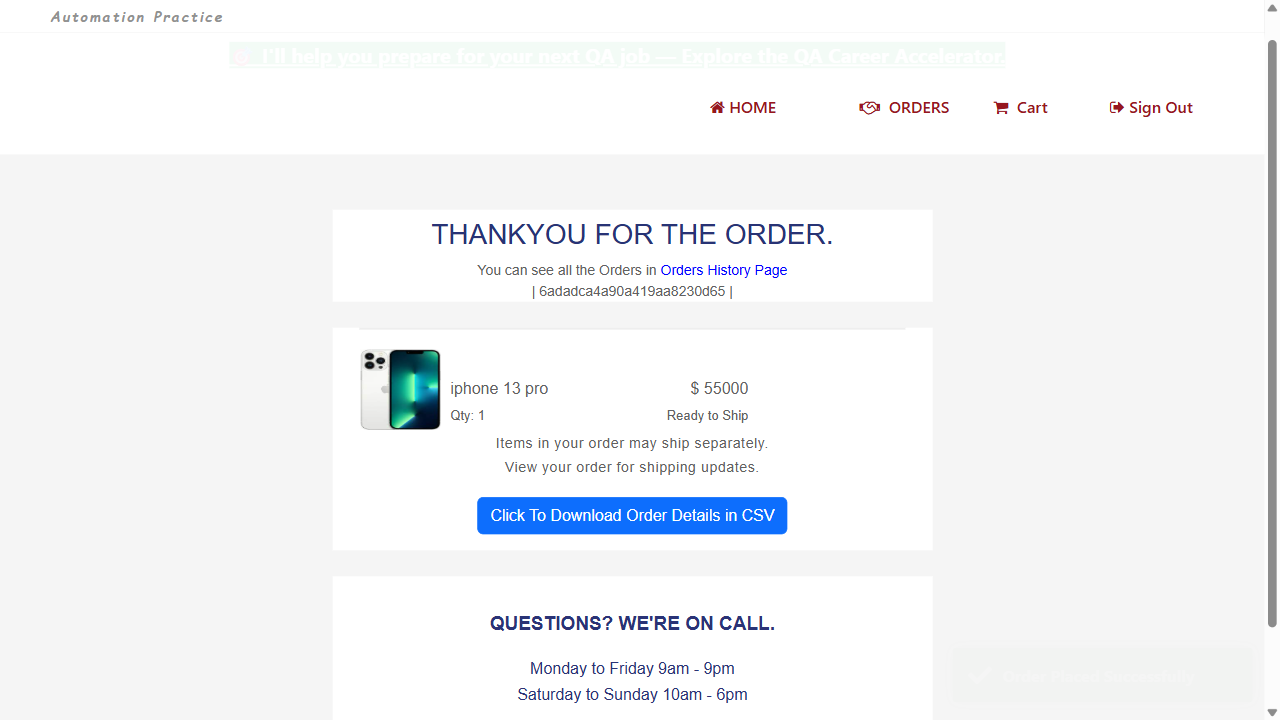
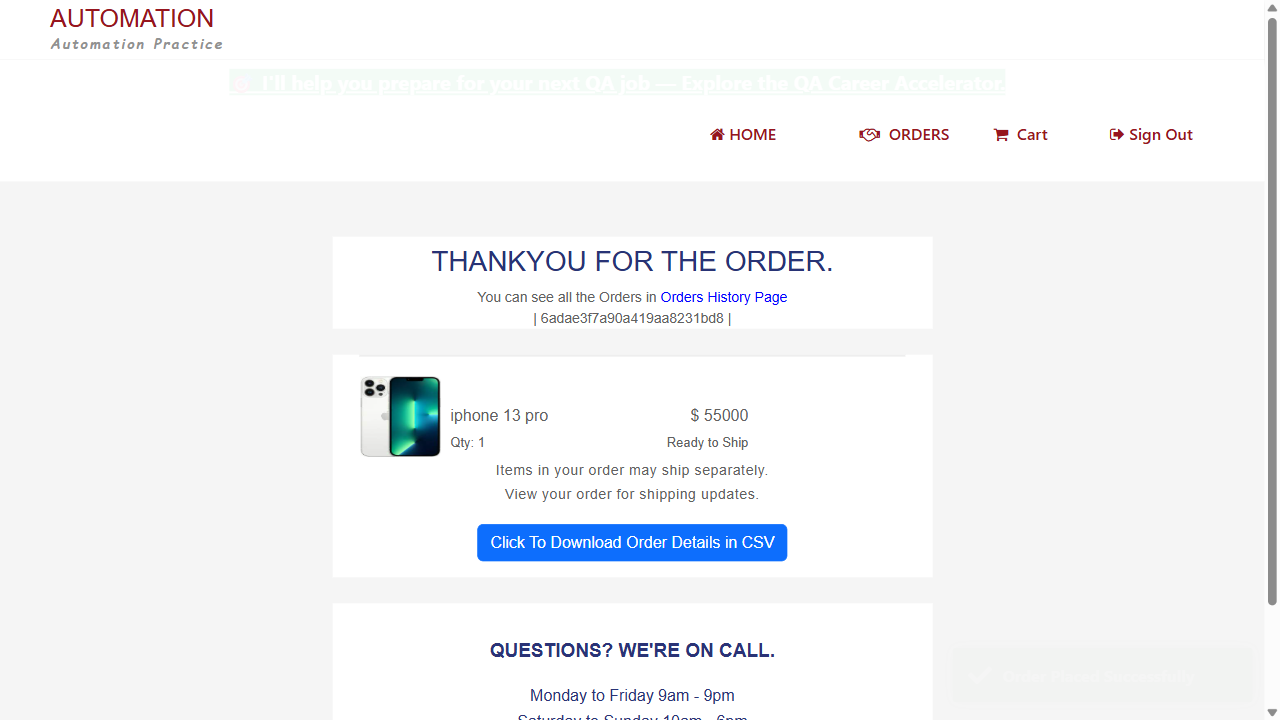
enhanced e-comm website flow

diff --git a/tests/E2E_eComm_Automation.spec.js b/tests/E2E_eComm_Automation.spec.js
@@ -2,7 +2,7 @@
 
 const {test, expect} = require('@playwright/test');
 
-test.only('order placement', async ({browser}) =>
+test('order placement', async ({browser}) =>
 {
     const context = await browser.newContext();
     const page = await context.newPage();
@@ -74,6 +74,25 @@ test.only('order placement', async ({browser}) =>
     await expect(page.locator('.hero-primary')).toHaveText(/thankyou for the order/i);
     await page.screenshot({path: 'order_placed_successfully.png'});
 
-    await page.getByRole('button', { name: /Download/ }).click();
+    const orderId = await page.locator('label.ng-star-inserted').textContent();
+    console.log(orderId);
+    const ordersBtn = page.getByRole('button', { name: /ORDERS/ });
+    await ordersBtn.click();
+    const orderTable = page.locator('tbody');
+    const tableRows = await orderTable.locator('tr');
+    await tableRows.first().waitFor();
+    const rowCount = await tableRows.count();
+    for (let i = 0; i < rowCount; i++)
+    {
+        const row = tableRows.nth(i);
+        const rowId = await row.locator('th').textContent();
+        console.log(rowId);
+        if(orderId.includes(rowId.trim()))
+        {
+            console.log("Order found");
+            break;
+        }
+    }
+    // await page.getByRole('button', { name: /Download/ }).click();
     await page.pause();
 });

diff --git a/tests/UIBasics6.spec.js b/tests/UIBasics6.spec.js
@@ -1,0 +1,10 @@
+// GetBy locators for smart testing using Playwright
+// getByRole, getByLabel, getByPlaceholder, getByText, getByTestId
+// getByText, getByAltText, getByTitle, getByTestId
+
+const {test, expect} = require('@playwright/test');
+
+test.only('getBy locators', async ({page}) =>
+{
+    await page.goto('https://rahulshettyacademy.com/loginpagePractise/');
+});
